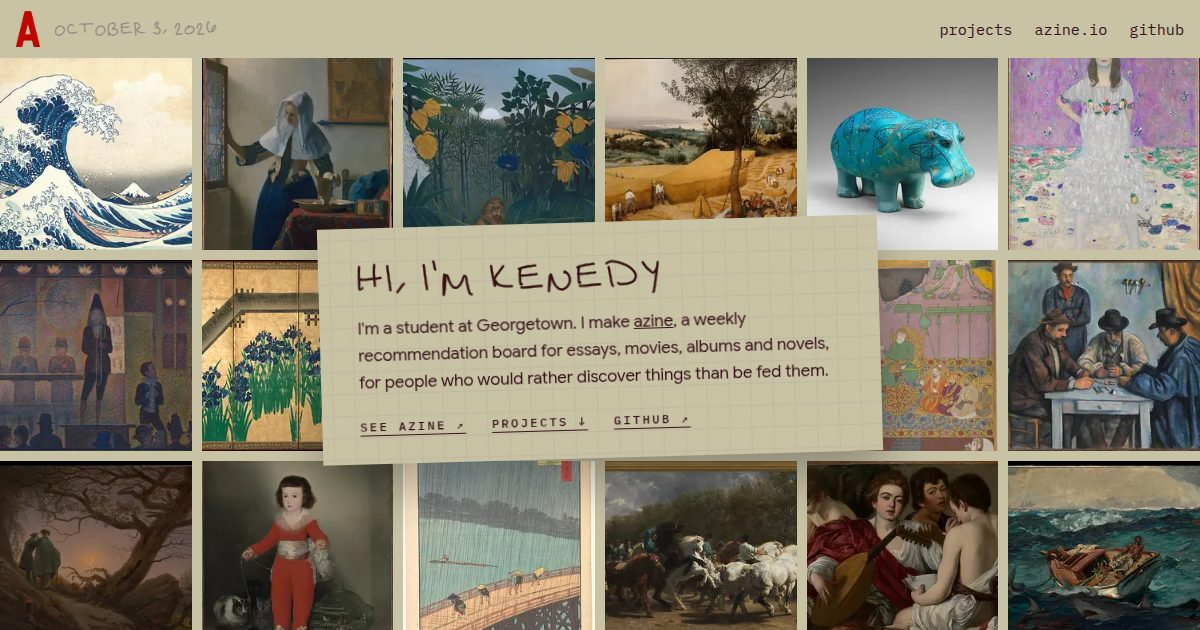
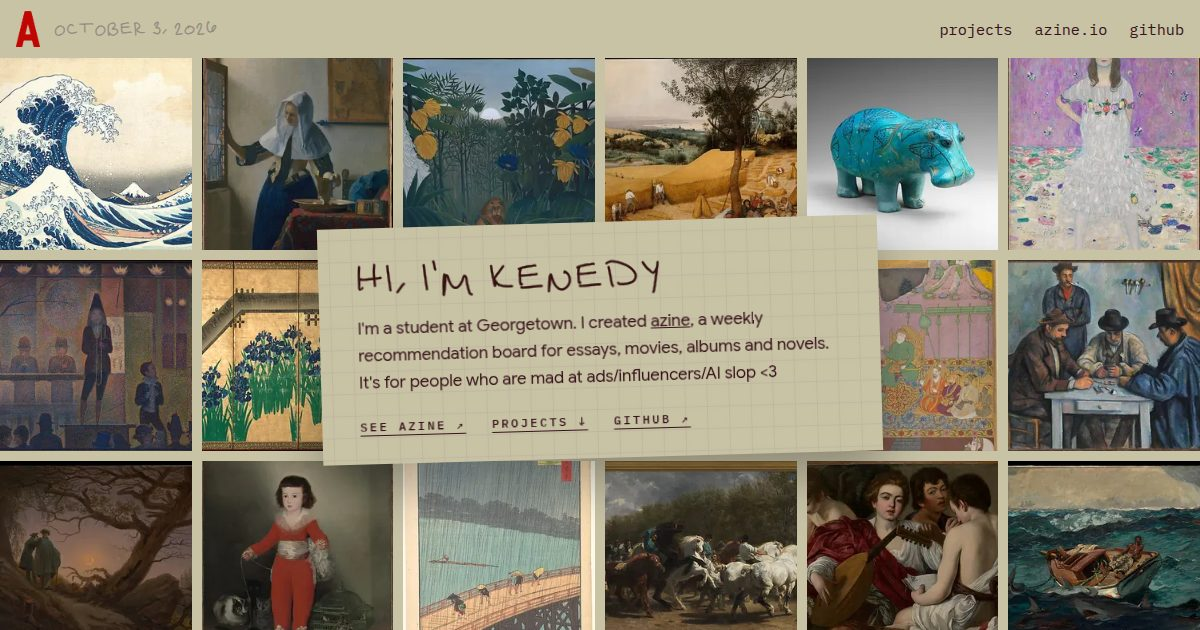
Note: "I created azine"; crime project adds NYC
Claude-Session: https://claude.ai/code/session_01EH819czZsnZKtnuG1V7KTT

Changed region(s): [[0.3083, 0.573, 0.6783, 0.6333], [0.4933, 0.4825, 0.6475, 0.5429]]

diff --git a/index.html b/index.html
@@ -4,7 +4,7 @@
   <meta charset="utf-8">
   <meta name="viewport" content="width=device-width, initial-scale=1">
   <title>Kenedy Ducheine</title>
-  <meta name="description" content="Kenedy Ducheine: student at Georgetown, maker of azine, a weekly recommendation board for essays, movies, albums and novels.">
+  <meta name="description" content="Kenedy Ducheine: student at Georgetown, creator of azine, a weekly recommendation board for essays, movies, albums and novels.">
   <meta property="og:title" content="Kenedy Ducheine">
   <meta property="og:description" content="Student at Georgetown. Making azine.">
   <meta property="og:image" content="https://kenedyducheine.github.io/assets/og.jpg">
@@ -564,9 +564,9 @@
 
       <div class="note">
         <h1 class="hand">Hi, I'm Kenedy</h1>
-        <p>I'm a student at Georgetown. I make <a href="https://azine.io">azine</a>, a weekly
-          recommendation board for essays, movies, albums and novels, for people who would rather
-          discover things than be fed them.</p>
+        <p>I'm a student at Georgetown. I created <a href="https://azine.io">azine</a>, a weekly
+          recommendation board for essays, movies, albums and novels. It's for people who are
+          mad at ads/influencers/AI slop &lt;3</p>
         <div class="links">
           <a href="https://azine.io">See azine&nbsp;↗</a>
           <a href="#projects">Projects&nbsp;↓</a>
@@ -621,7 +621,7 @@
       </a>
       <div class="show-text">
         <p class="label">Point processes</p>
-        <p>Is crime contagious, or does it cluster where the underlying conditions are worse? We tested a paper&#x27;s claim about Hawkes processes against log-Gaussian Cox processes, with our own regressions on crime data from Chicago and Vancouver.</p>
+        <p>Is crime contagious, or does it cluster where the underlying conditions are worse? We tested a paper&#x27;s claim about Hawkes processes against log-Gaussian Cox processes, with our own regressions on crime data from Chicago, Vancouver and NYC.</p>
         <span class="rule"></span>
         <p class="credit">Sudden Shower over Shin-Ōhashi Bridge and Atake, Utagawa Hiroshige, 1857</p>
       </div>
